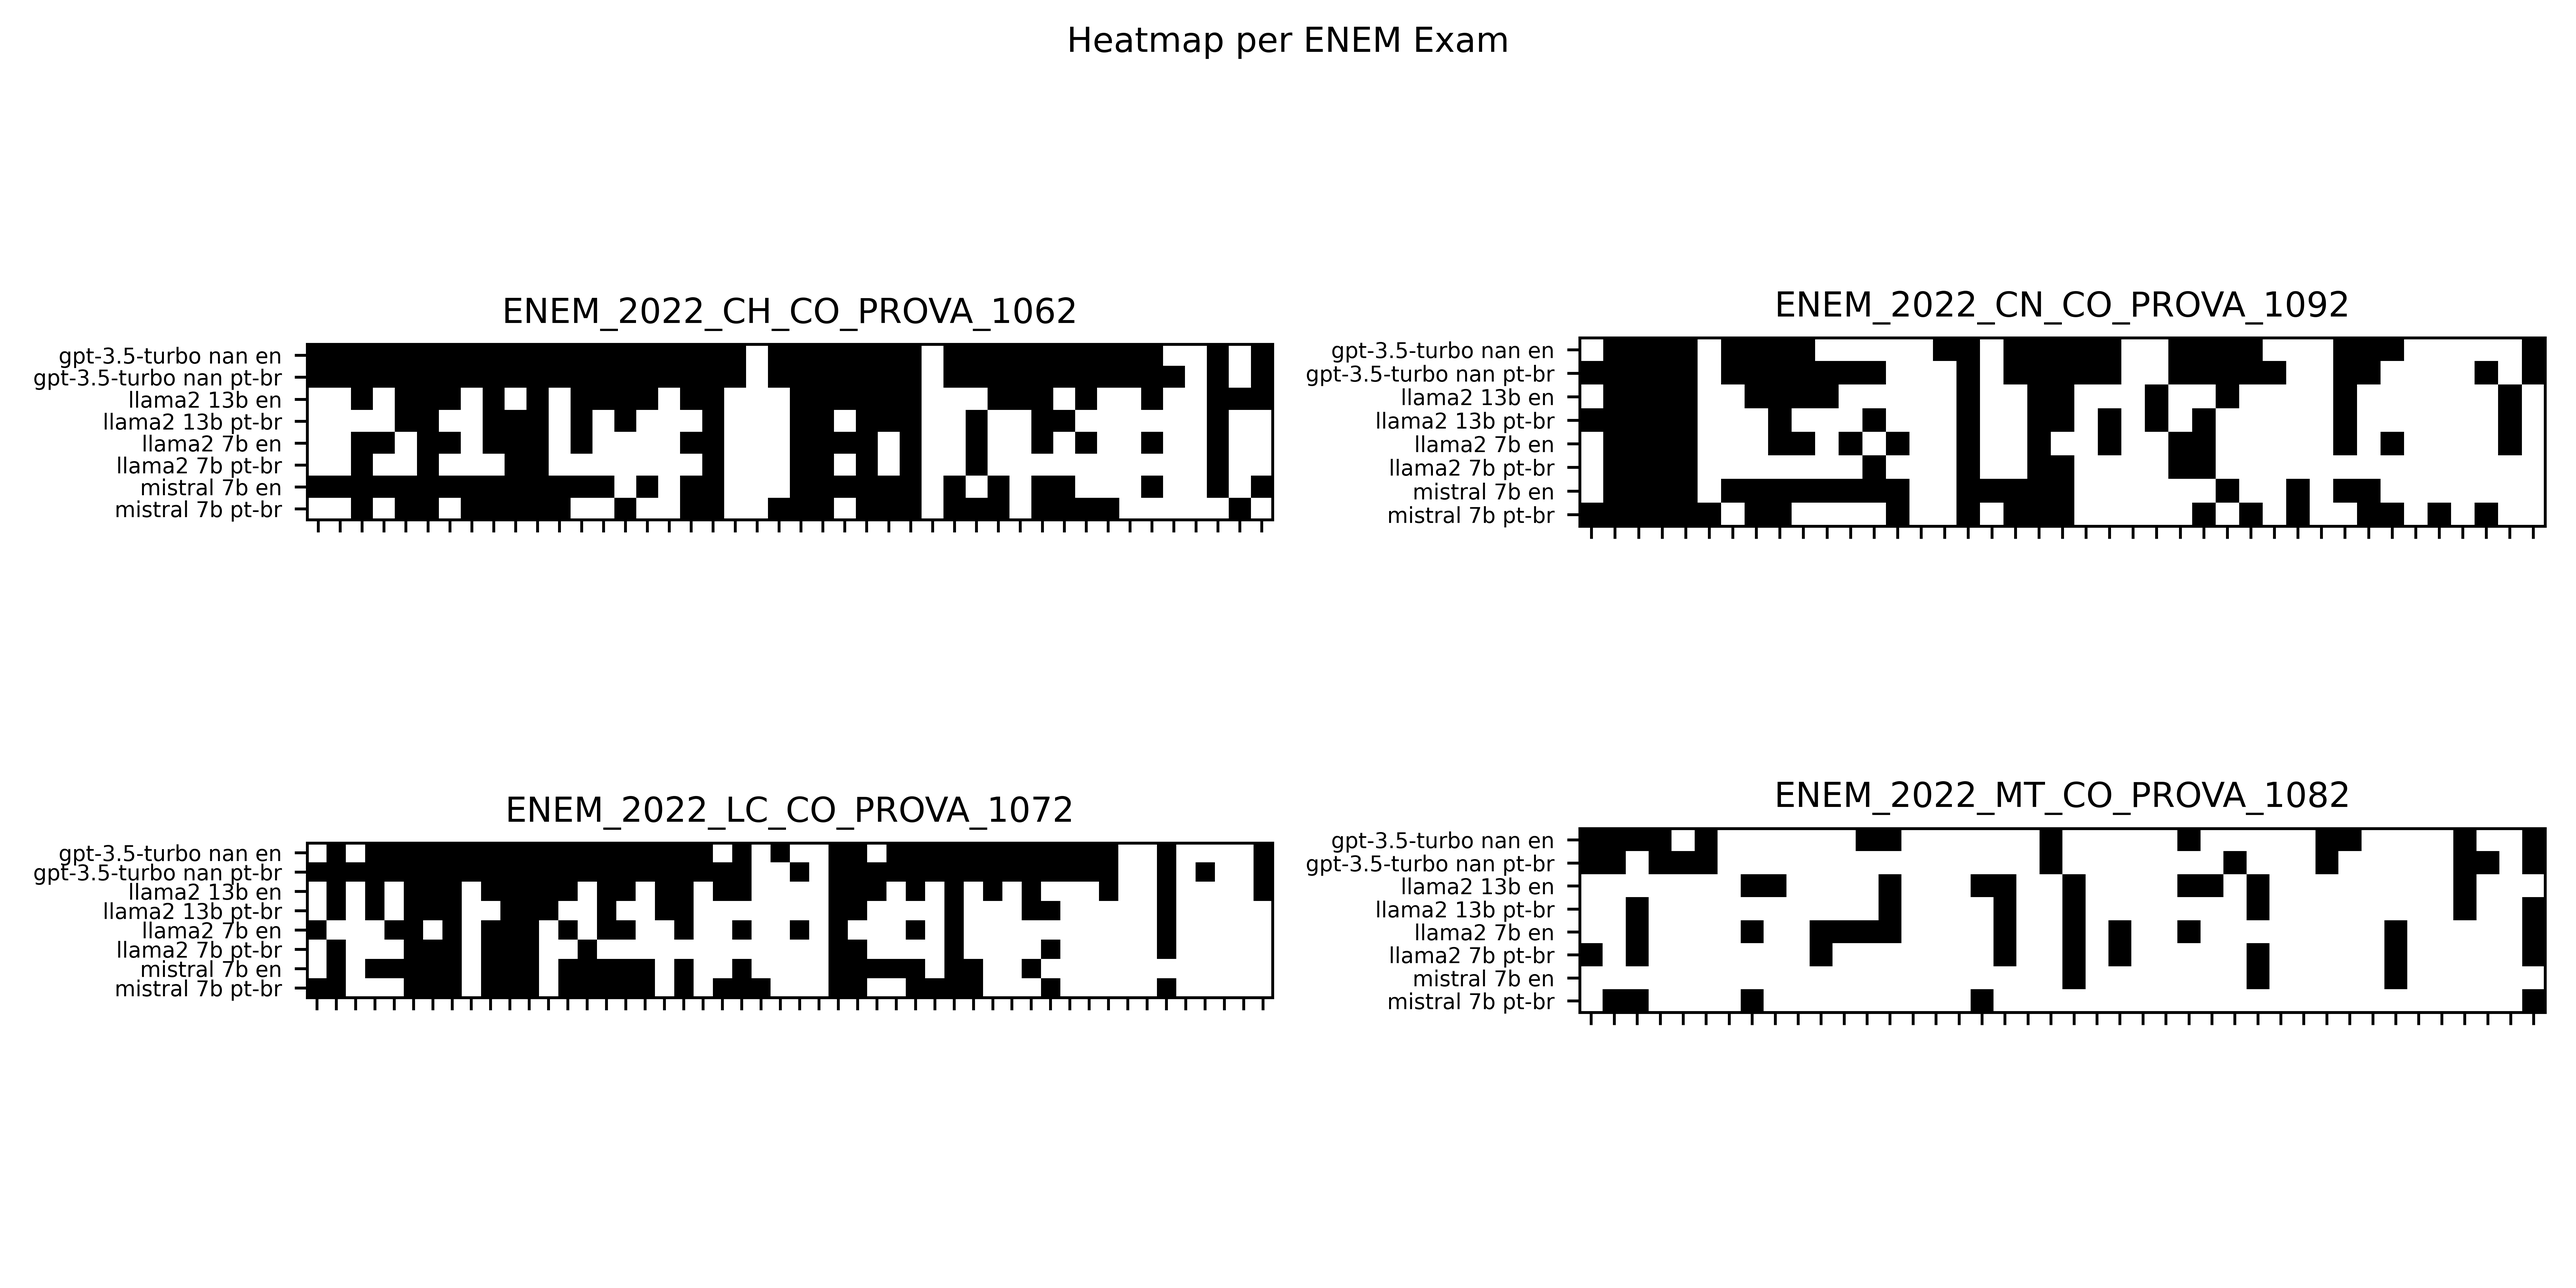
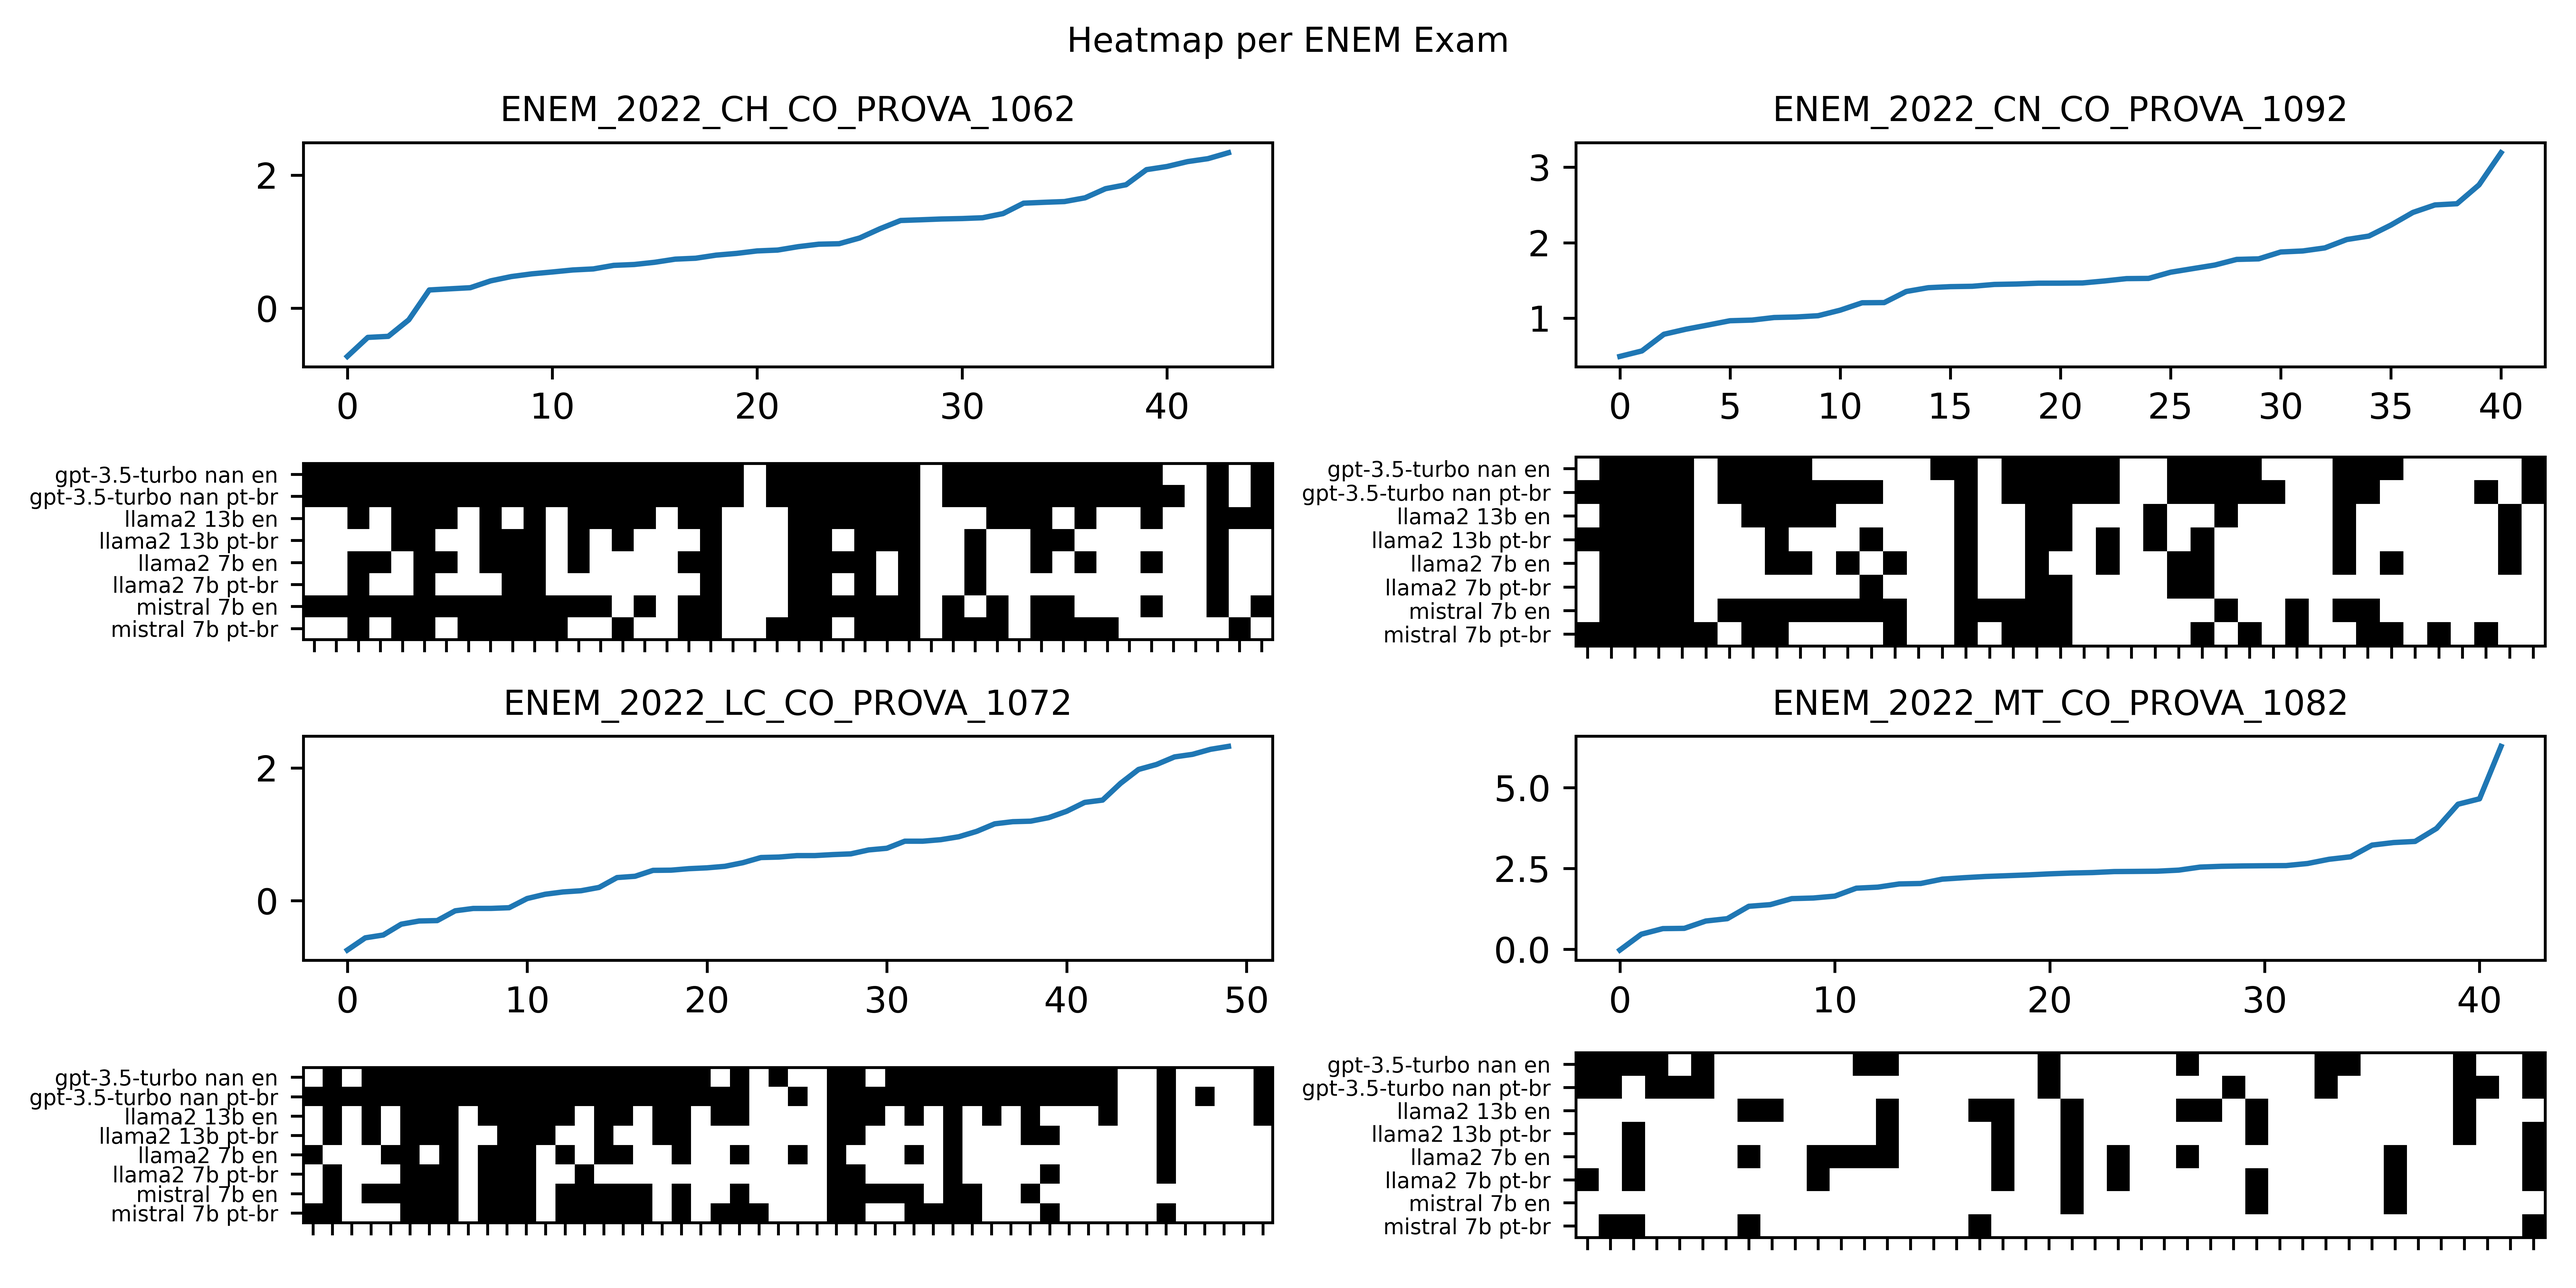
Change heatmap plot

diff --git a/plots.py b/plots.py
@@ -14,7 +14,7 @@ df["FULL_MODEL"] = df["MODEL_NAME"].astype(str) + " " + df["MODEL_SIZE"].astype(
 # Plot heatmap of models x questions sorted by difficulty
 df_items = pd.read_csv("data/raw-enem-exams/microdados_enem_2022/DADOS/ITENS_PROVA_2022.csv", sep=";", encoding="latin-1")
 
-fig, axes = plt.subplots(2, 2, figsize=(10, 5))
+fig, axes = plt.subplots(4, 2, figsize=(10, 5))
 # Set fontsize
 plt.rcParams.update({"font.size": 8})
 fig.suptitle("Heatmap per ENEM Exam")
@@ -22,22 +22,24 @@ for i, enem_exam in enumerate(df.ENEM_EXAM.unique()):
     sample_df = df[df.ENEM_EXAM == enem_exam]
     matrix_response_pattern = []
     idx_name = []
+    exam = df_items[df_items.CO_PROVA == sample_df.iloc[0, :].CO_PROVA].sort_values(by="CO_POSICAO").reset_index(drop=True)
+    exam["IDX_POSICAO"] = exam.index
+    exam.sort_values(by="NU_PARAM_B", inplace=True)
+    exam.dropna(subset=["NU_PARAM_B"], inplace=True)
+    #print(exam[["NU_PARAM_B", "CO_POSICAO", "IDX_POSICAO"]])
     for row in sample_df.itertuples():
-        exam = df_items[df_items.CO_PROVA == row.CO_PROVA].sort_values(by="CO_POSICAO").reset_index(drop=True)
-        exam["IDX_POSICAO"] = exam.index
-        exam.sort_values(by="NU_PARAM_B", inplace=True)
-        print(exam[["NU_PARAM_B", "CO_POSICAO", "IDX_POSICAO"]])
-        exam.dropna(subset=["NU_PARAM_B"], inplace=True)
         response_pattern = np.array(list(row.RESPONSE_PATTERN)).astype(int)
         response_pattern = response_pattern[exam.IDX_POSICAO.values]
         matrix_response_pattern.append(response_pattern)
         idx_name.append(row.FULL_MODEL + " " + row.LANGUAGE)
     
-    axes[i // 2, i % 2].imshow(matrix_response_pattern, cmap="binary")
-    axes[i // 2, i % 2].set_xticks(np.arange(len(exam.IDX_POSICAO.values)), labels=exam.IDX_POSICAO.values)
-    axes[i // 2, i % 2].set_yticks(np.arange(len(idx_name)), labels=idx_name, fontsize=6)
-    axes[i // 2, i % 2].set_xticklabels([])
-    axes[i // 2, i % 2].set_title(enem_exam)
+    axes[1 if i < 2 else 3, i % 2].imshow(matrix_response_pattern, cmap="binary")
+    axes[1 if i < 2 else 3, i % 2].set_xticks(np.arange(len(exam.IDX_POSICAO.values)), labels=exam.IDX_POSICAO.values)
+    axes[1 if i < 2 else 3, i % 2].set_yticks(np.arange(len(idx_name)), labels=idx_name, fontsize=6)
+    axes[1 if i < 2 else 3, i % 2].set_xticklabels([])
+
+    axes[0 if i < 2 else 2, i % 2].plot(range(len(exam.IDX_POSICAO.values)), exam.NU_PARAM_B.values, "-")
+    axes[0 if i < 2 else 2, i % 2].set_title(enem_exam)
 
 plt.tight_layout()
 plt.savefig("plots/response-pattern-heatmap.png", dpi=800)
